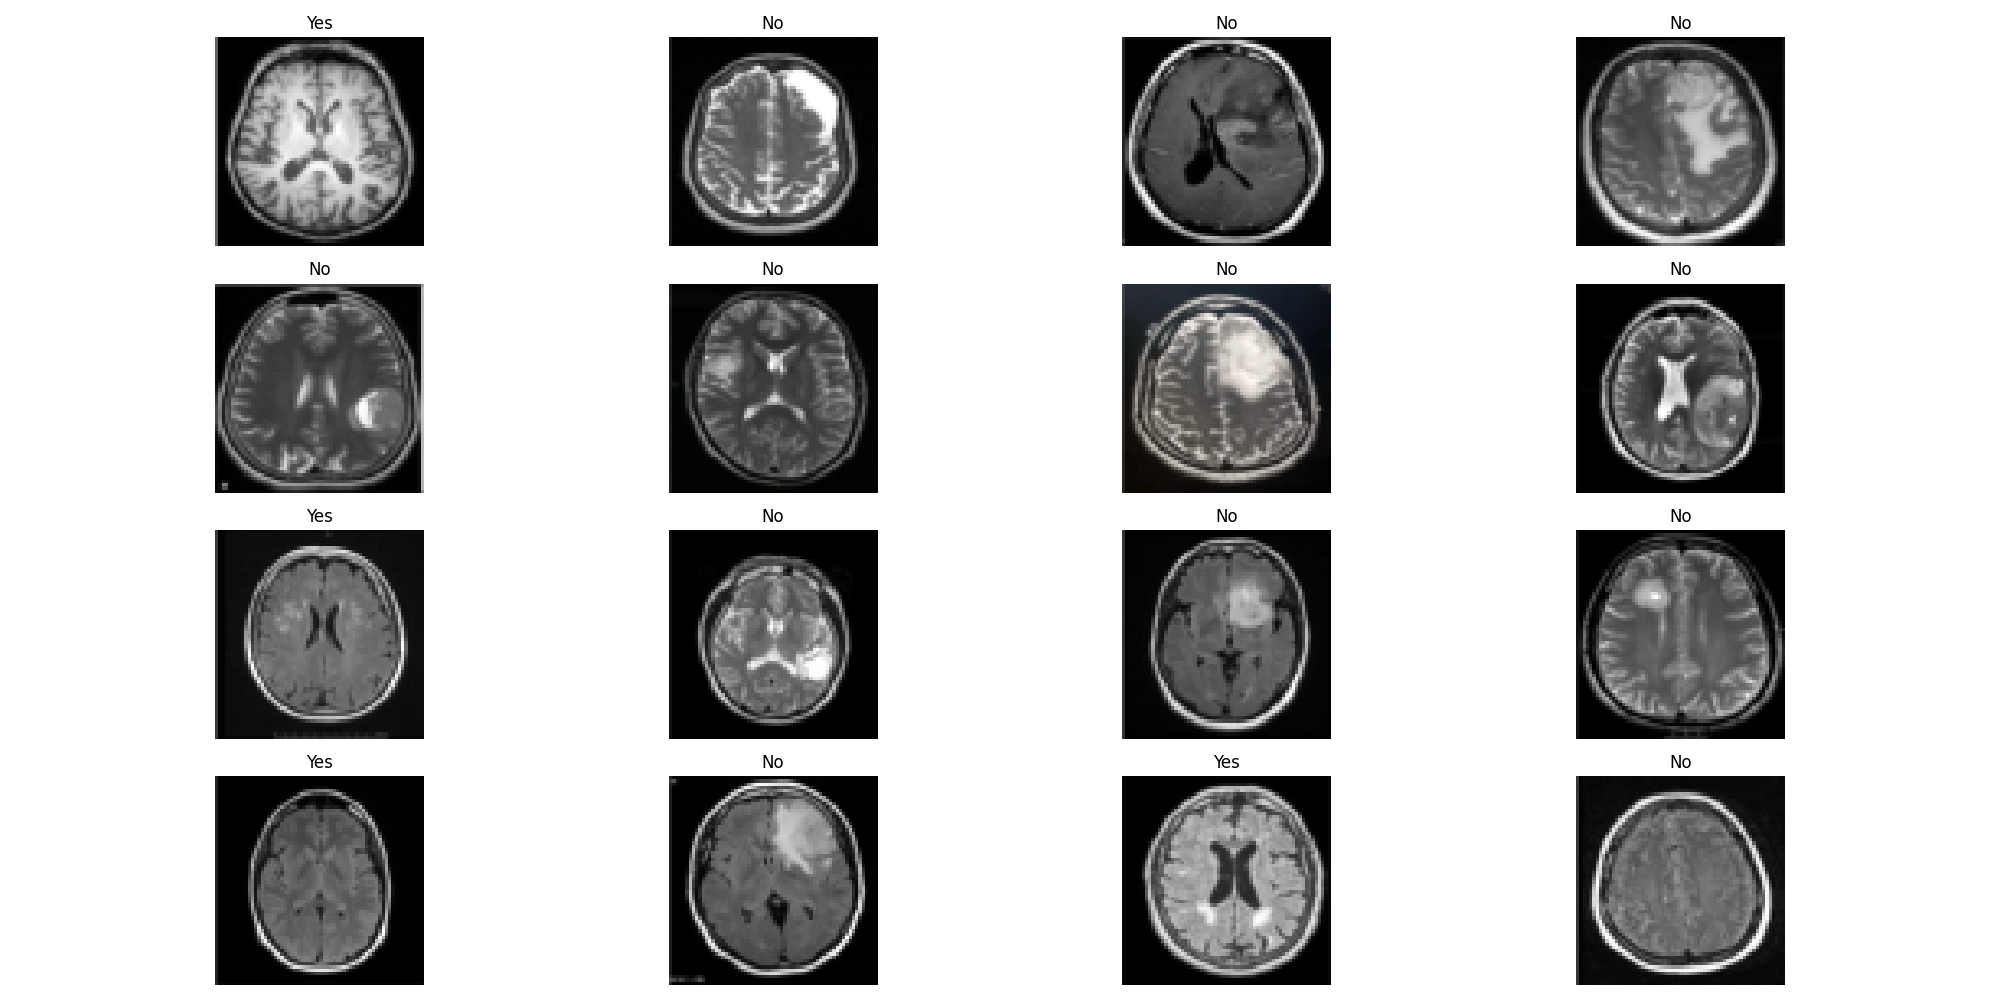
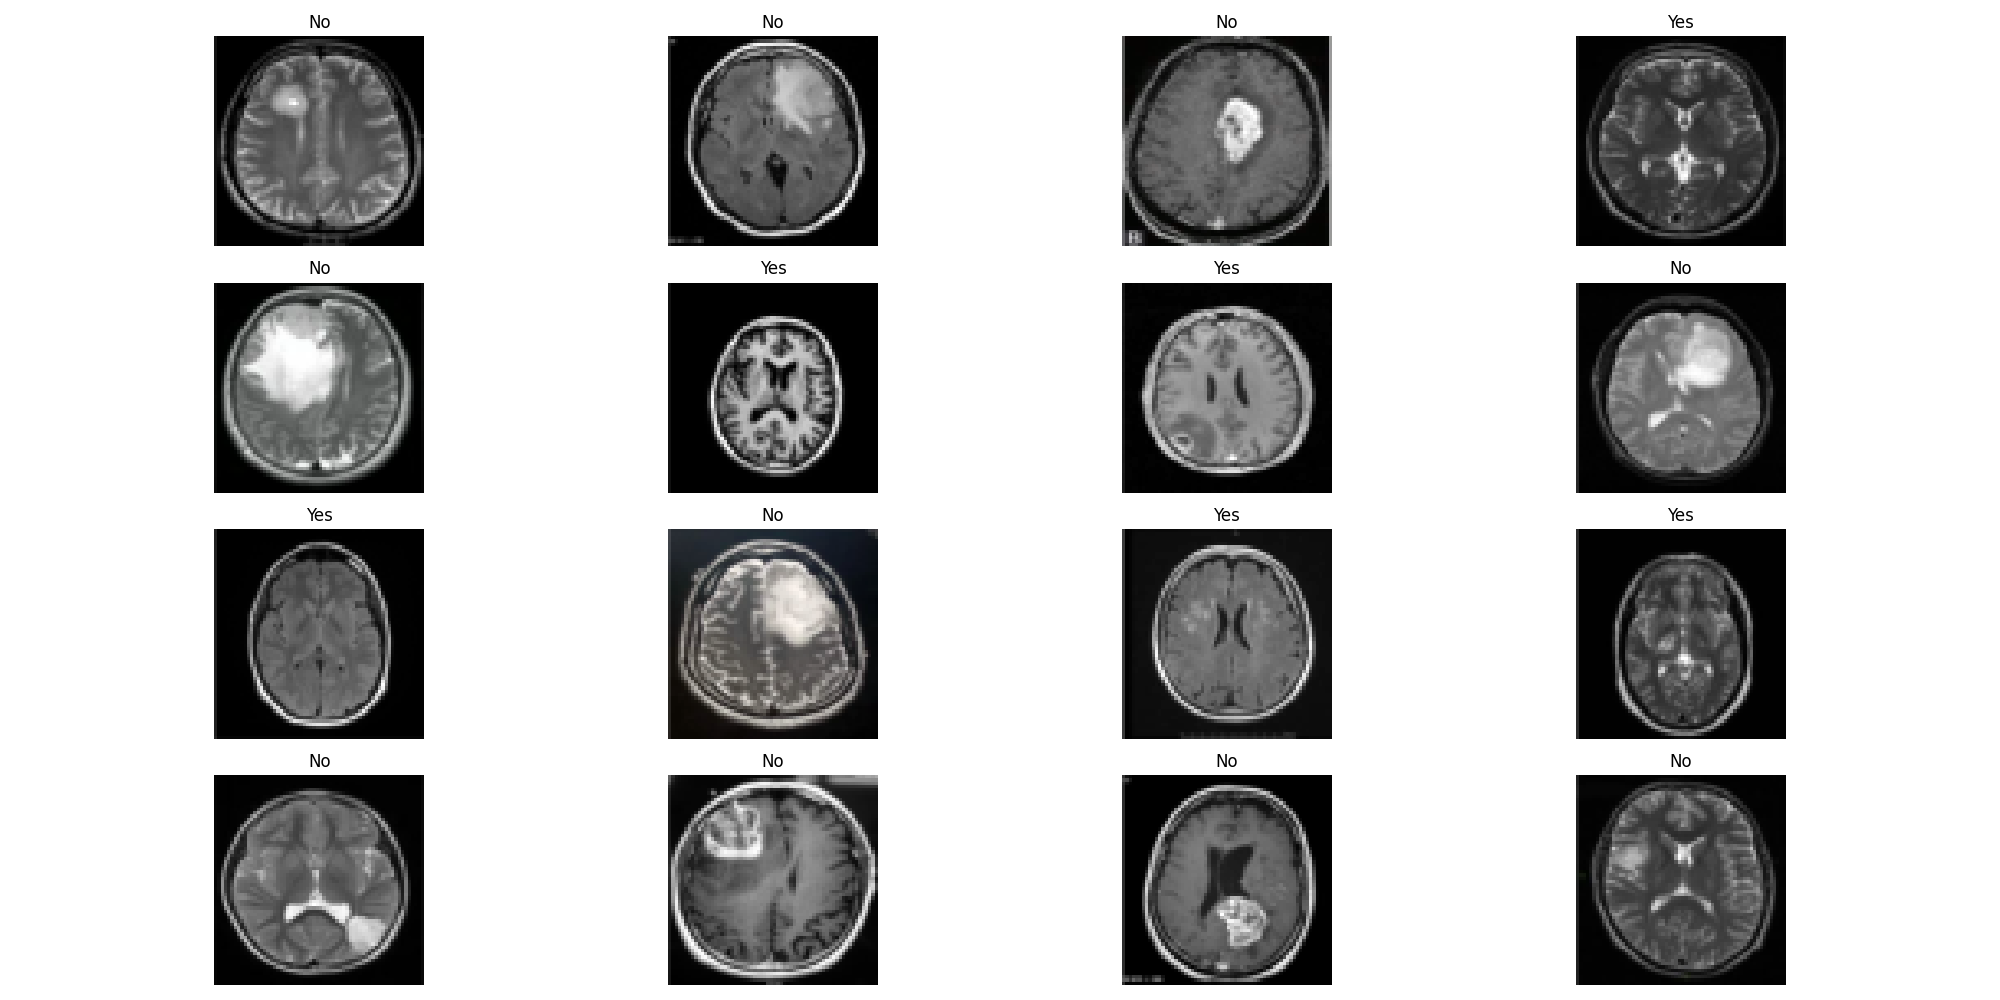
unittest passed dataloader #9

diff --git a/unittest/unit-test.py b/unittest/unit-test.py
@@ -1,0 +1,72 @@
+import sys
+import os
+import torch
+import unittest
+
+sys.path.append("src")
+
+from utils import config, dump, load
+from dataloader import Loader
+
+
+class UnitTest(unittest.TestCase):
+    def setUp(self):
+        self.config = config()
+        self.train_dataloader = load(
+            os.path.join(self.config["path"]["processed_path"], "train_dataloader.pkl")
+        )
+
+        self.test_dataloader = load(
+            os.path.join(self.config["path"]["processed_path"], "test_dataloader.pkl")
+        )
+
+        self.val_dataloader = load(
+            os.path.join(self.config["path"]["processed_path"], "val_dataloader.pkl")
+        )
+
+    def tearDown(self) -> None:
+        return super().tearDown()
+
+    def test_total_train_data(self):
+        self.assertEqual(
+            sum(data.size(0) for data, labels in self.train_dataloader), 61
+        )
+
+    def test_total_test_data(self):
+        self.assertEqual(sum(data.size(0) for data, labels in self.test_dataloader), 61)
+
+    def test_total_val_data(self):
+        self.assertEqual(sum(data.size(0) for data, labels in self.val_dataloader), 123)
+
+    def test_total_data(self):
+        self.total_data = sum(
+            [
+                sum([data.size(0) for data, labels in dataloader])
+                for dataloader in [
+                    self.train_dataloader,
+                    self.test_dataloader,
+                    self.val_dataloader,
+                ]
+            ]
+        )
+
+        self.assertEqual(self.total_data, 245)
+
+    def test_train_data_size(self):
+        data, labels = next(iter(self.train_dataloader))
+
+        self.assertEqual(data.size(), torch.Size([4, 3, 64, 64]))
+
+    def test_test_data_size(self):
+        data, labels = next(iter(self.test_dataloader))
+
+        self.assertEqual(data.size(), torch.Size([16, 3, 64, 64]))
+
+    def test_val_data_size(self):
+        data, labels = next(iter(self.val_dataloader))
+
+        self.assertEqual(data.size(), torch.Size([4, 3, 64, 64]))
+
+
+if __name__ == "__main__":
+    unittest.main()

diff --git a/src/dataloader.py b/src/dataloader.py
@@ -282,8 +282,8 @@ if __name__ == "__main__":
     parser.add_argument(
         "--split_size",
         type=float,
-        default=0.2,
-        choices=[0.2, 0.25, 0.30],
+        default=0.50,
+        choices=[0.40, 0.50, 0.60],
         help="Split of the dataset".capitalize(),
     )
     args = parser.parse_args()
@@ -297,10 +297,10 @@ if __name__ == "__main__":
         )
 
         loader.unzip_folder()
-        # loader.create_dataloader()
+        loader.create_dataloader()
 
-        # loader.dataset_details()
-        # loader.plot_images()
+        loader.dataset_details()
+        loader.plot_images()
 
     else:
         raise ValueError("Image path is not found".capitalize())
